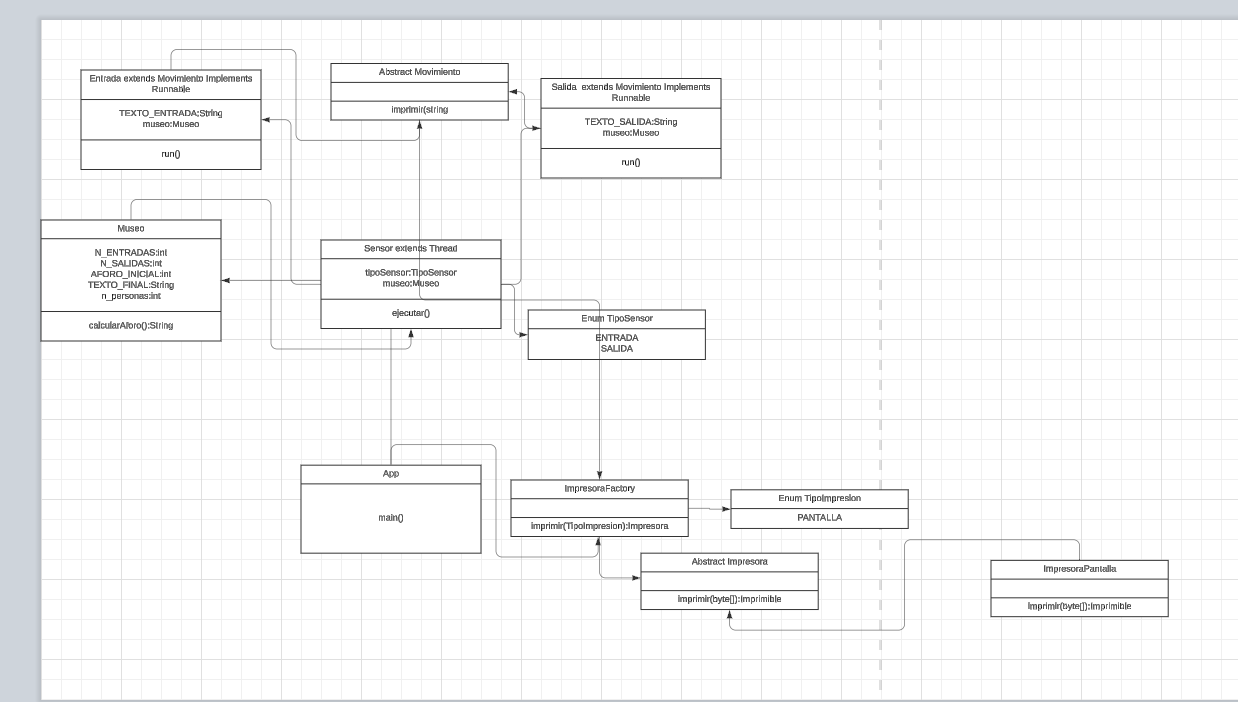
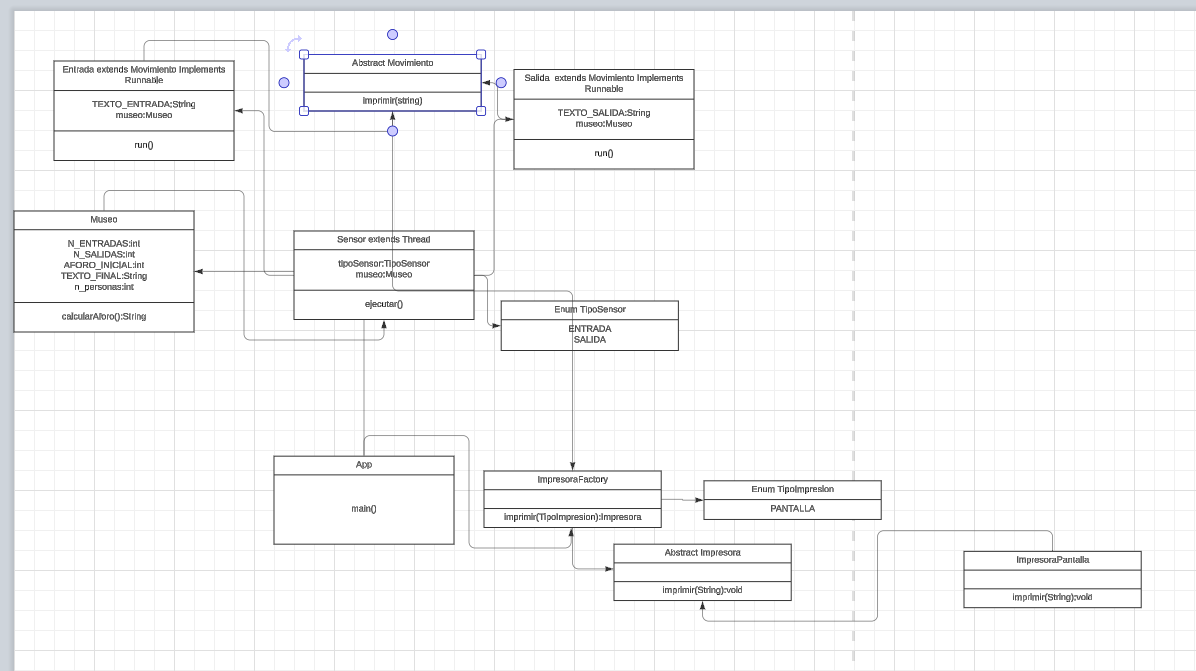
fix errors

diff --git a/src/es/etg/psp/museo/controller/Museo.java b/src/es/etg/psp/museo/controller/Museo.java
@@ -1,8 +1,9 @@
 package es.etg.psp.museo.controller;
+import java.lang.*;
 
 public class Museo {
-	public static final int N_ENTRADAS=10
-	public static final int N_SALIDAS=15
+	public static final int N_ENTRADAS=10;
+	public static final int N_SALIDAS=15;
 	public static final int AFORO_INICIAL=100;
 	 public static final String TEXTO_FINAL="Aforo final: %s visitantes";
 	private int n_personas;
@@ -11,7 +12,7 @@ public class Museo {
 	}
 		
 	
-	public String calcularAforo(){
+	public String calcularAforo() throws InterruptedException{
 		Sensor sensor_entrada=new Sensor(TipoSensor.ENTRADA,this);
 		Sensor sensor_salida=new Sensor (TipoSensor.SALIDA, this);
 		sensor_entrada.start();
@@ -21,5 +22,11 @@ public class Museo {
 		String data=String.format(TEXTO_FINAL,this.n_personas);
         return data;
             
+	}
+	public int getNPersonas (){
+		return this.n_personas;
+	}
+	public void setNPersonas(int n_personas){
+		this.n_personas=n_personas;
 	}
 }

diff --git a/src/es/etg/psp/museo/controller/Sensor.java b/src/es/etg/psp/museo/controller/Sensor.java
@@ -1,4 +1,6 @@
 package es.etg.psp.museo.controller;
+import es.etg.psp.museo.data.*;
+import java.lang.*;
 
 public class Sensor extends Thread {
 	private TipoSensor tipoSensor;
@@ -9,17 +11,25 @@ public class Sensor extends Thread {
 	}
 	public void run(){
 		if (this.tipoSensor==TipoSensor.ENTRADA){
-			for(int i=1; i<=MUSEO.N_ENTRADAS; i++){
-            Entrada e=new Entrada(this.museo);
+			for(int i=1; i<=Museo.N_ENTRADAS; i++){
+            Thread e=new Thread(new Entrada(this.museo));
 			e.start();
+			try {
 			e.join();
+			} catch (InterruptedException ex) {
+			ex.printStackTrace();
+			}
         }
 		}
 		else {
-			for(int i=1; i<=MUSEO.N_SALIDAS; i++){
-			Salida s=new Salida(this.museo);
+			for(int i=1; i<=Museo.N_SALIDAS; i++){
+			Thread s=new Thread(new Salida(this.museo));
 			s.start();
+			try {
 			s.join();
+			} catch (InterruptedException ex) {
+			ex.printStackTrace();
+			}
 		}
 		}
 	}

diff --git a/src/es/etg/psp/museo/data/Entrada.java b/src/es/etg/psp/museo/data/Entrada.java
@@ -1,4 +1,6 @@
 package es.etg.psp.museo.data;
+import es.etg.psp.museo.controller.*;
+import java.lang.*;
 
 public class Entrada extends Movimiento implements Runnable{
 
@@ -10,7 +12,8 @@ public class Entrada extends Movimiento implements Runnable{
     }
 
     public void run(){
-      this.museo.n_personas++;
-      super.imprimir(String.format(TEXTO_ENTRADA, this.museo.n_personas);
+	  int n_personas=this.museo.getNPersonas();
+      this.museo.setNPersonas(n_personas+1);
+      super.imprimir(String.format(TEXTO_ENTRADA, n_personas));
     }
 }

diff --git a/src/es/etg/psp/museo/data/Salida.java b/src/es/etg/psp/museo/data/Salida.java
@@ -1,4 +1,6 @@
 package es.etg.psp.museo.data;
+import es.etg.psp.museo.controller.*;
+import java.lang.*;
 
 public class Salida  extends Movimiento implements Runnable{
 
@@ -10,7 +12,8 @@ public class Salida  extends Movimiento implements Runnable{
     }
 
     public void run(){
-      this.museo.n_personas--;
-      super.imprimir(String.format(TEXTO_SALIDA, this.museo.n_personas);
+	  int n_personas=this.museo.getNPersonas();
+      this.museo.setNPersonas(n_personas-1);
+      super.imprimir(String.format(TEXTO_SALIDA, n_personas));
     }
 }

diff --git a/src/es/etg/psp/museo/App.java b/src/es/etg/psp/museo/App.java
@@ -1,9 +1,11 @@
 package es.etg.psp.museo;
+import es.etg.psp.museo.controller.*;
+import es.etg.psp.museo.impresion.*;
 
 public class App {
 
     public static void main(String[] args) {
-			Museo m=new Museo;
+			Museo m=new Museo();
 			String data=m.calcularAforo();
 			Impresora impresora = ImpresoraFactory.imprimir(TipoImpresion.PANTALLA);
 			impresora.imprimir(data);

diff --git a/src/es/etg/psp/museo/data/Movimiento.java b/src/es/etg/psp/museo/data/Movimiento.java
@@ -1,8 +1,8 @@
 package es.etg.psp.museo.data;
-
+import es.etg.psp.museo.impresion.*;
 
 public abstract class Movimiento {
-   public String imprimir(string data){
+   public void imprimir(String data){
       Impresora impresora = ImpresoraFactory.imprimir(TipoImpresion.PANTALLA);
       impresora.imprimir(data);
    }

diff --git a/src/es/etg/psp/museo/impresion/Impresora.java b/src/es/etg/psp/museo/impresion/Impresora.java
@@ -2,8 +2,8 @@ package es.etg.psp.museo.impresion;
 
 
 public abstract class Impresora {
-   public String imprimir(String data){
+   public void imprimir(String data){
       ImpresoraPantalla impresora=new ImpresoraPantalla();
-      return impresora.imprimir(data);
+      impresora.imprimir(data);
    }
 }

diff --git a/src/es/etg/psp/museo/impresion/ImpresoraPantalla.java b/src/es/etg/psp/museo/impresion/ImpresoraPantalla.java
@@ -3,7 +3,7 @@ package es.etg.psp.museo.impresion;
 
 public class ImpresoraPantalla extends Impresora{
 
-	public String imprimir(String data){
+	public void imprimir(String data){
 		System.out.println(data);
     }
 

diff --git a/src/es/etg/psp/museo/controller/TipoSensor.java b/src/es/etg/psp/museo/controller/TipoSensor.java
@@ -1,4 +1,4 @@
-package es.etg.psp.museo.impresion;
+package es.etg.psp.museo.controller;
 
 
-public enum TipoImpresion { ENTRADA, SALIDA}
+public enum TipoSensor { ENTRADA, SALIDA}
